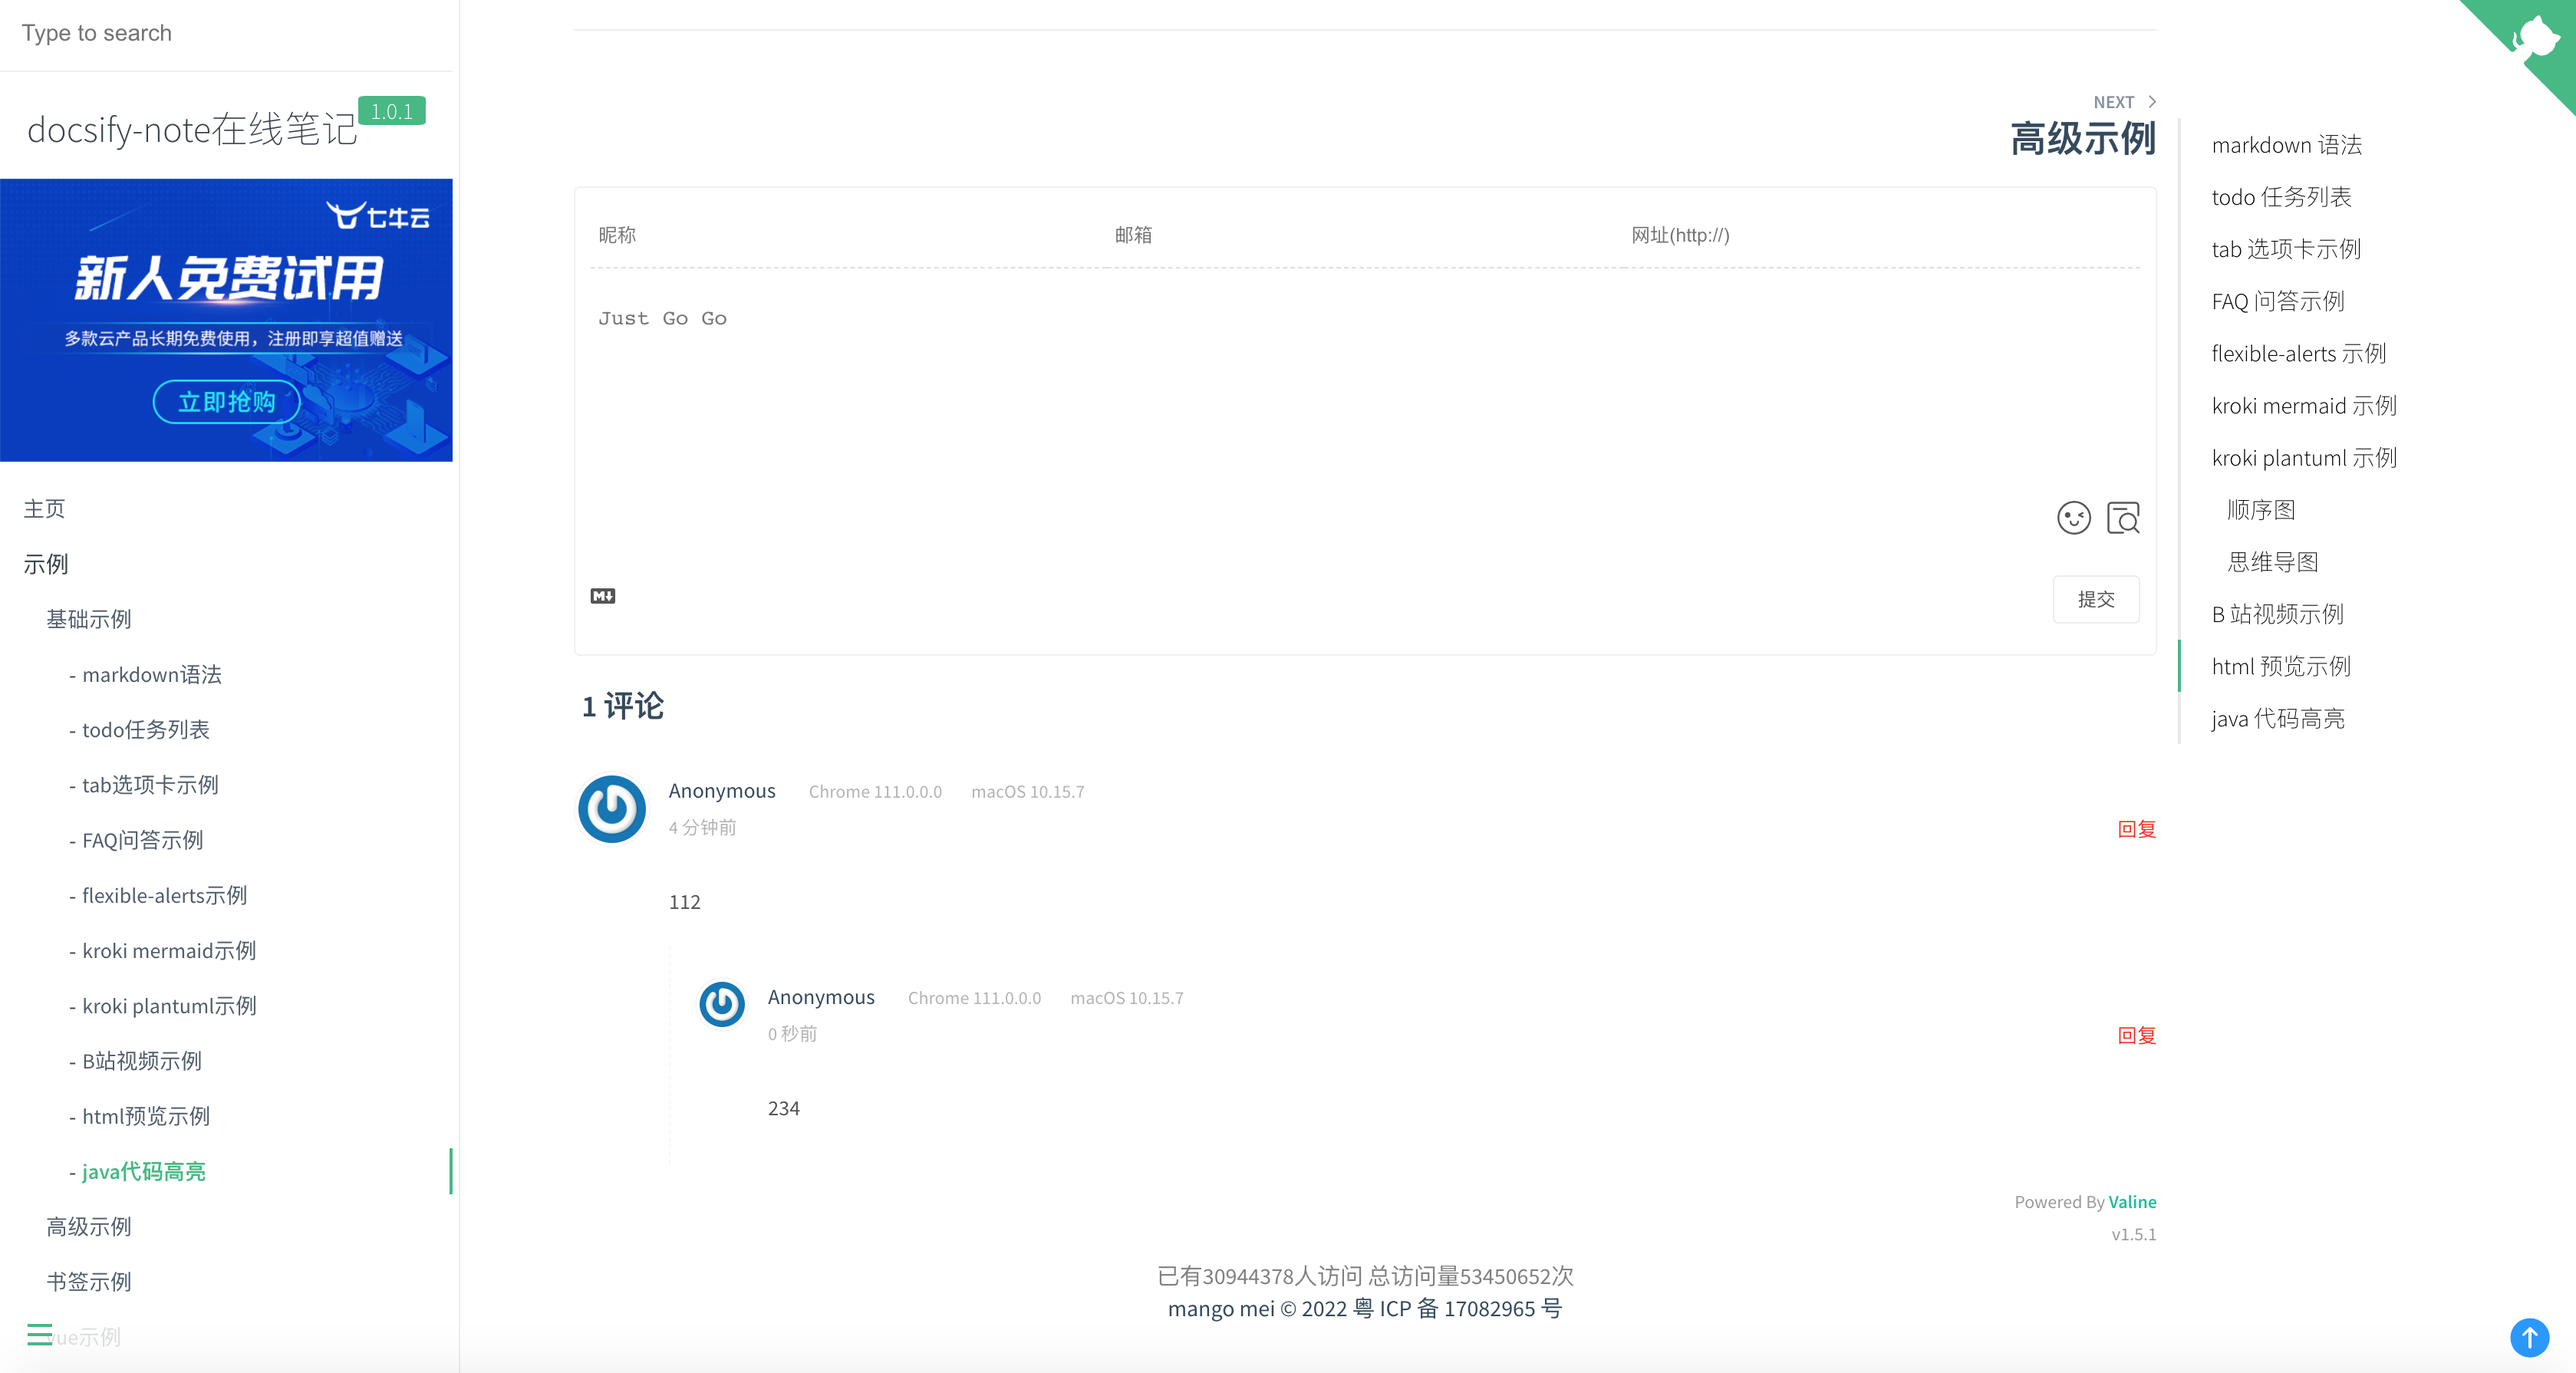
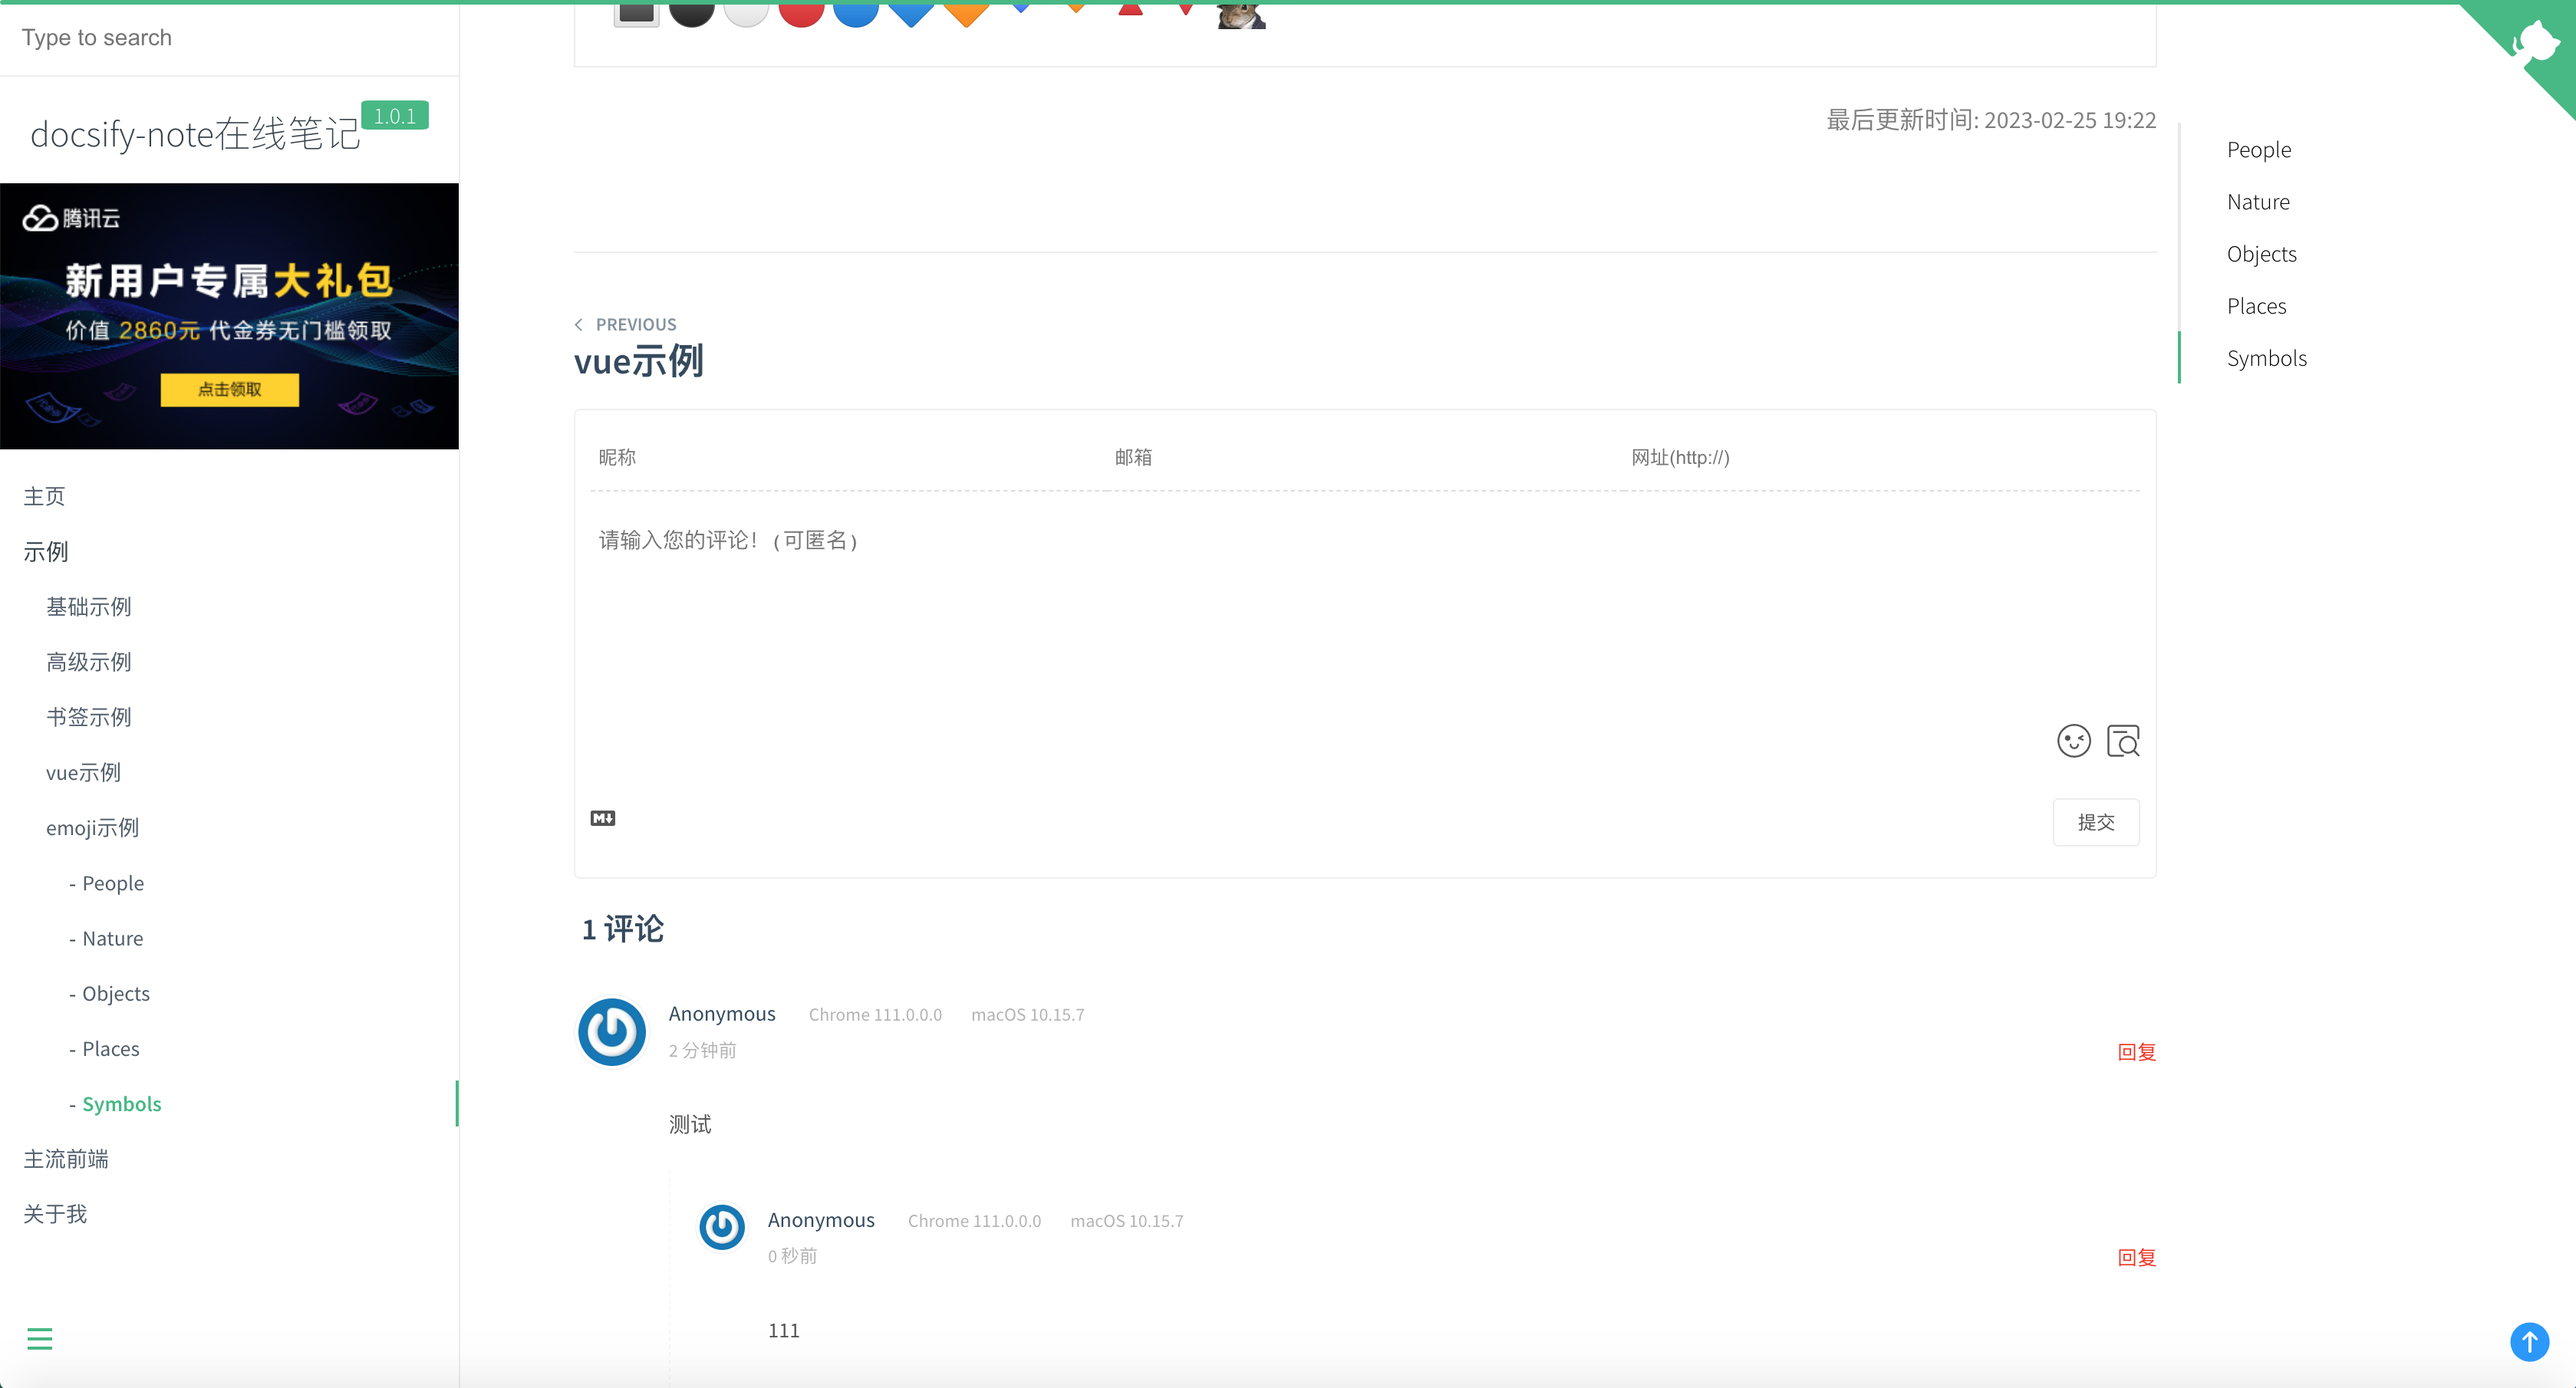
发布1.1.1

diff --git a/src/main.js b/src/main.js
@@ -1,5 +1,6 @@
 let config = {
-    el: '#vcomments'
+    el: '#vcomments',
+    placeholder: "请输入您的评论！(可匿名)"
 }
 function onlyHash(){
     return window.location.href.split("?")[0];

diff --git a/README.md b/README.md
@@ -28,5 +28,5 @@ docsify valine plugin，集成valine评论插件！
     ```html
     <!-- 评论  -->
     <script src='//cdn.jsdelivr.net/npm/valine/dist/Valine.min.js'></script>
-    <script src="https://unpkg.com/docsify-mango-valine@1.1.0/dist/docsify-mango-valine.min.js"></script>
+    <script src="https://unpkg.com/docsify-mango-valine@1.1.1/dist/docsify-mango-valine.min.js"></script>
     ```
